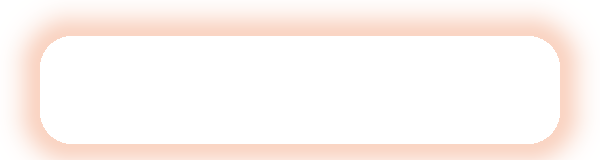
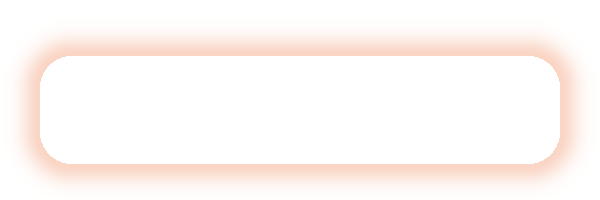
Mail: card ends as overlay without fill, halo not cut off, button cell recolours with the card

diff --git a/web/app/mailtext.py b/web/app/mailtext.py
@@ -75,7 +75,7 @@ HTML = """<!doctype html>
   <table role="presentation" width="520" cellpadding="0" cellspacing="0" border="0" style="width:100%;max-width:520px;border-collapse:separate;border-spacing:0;">
     <tr><td class="t" style="padding:0 8px 16px;font-family:%FONT%;font-size:18px;font-weight:700;letter-spacing:-0.01em;color:%TEXT%;">Agent-Hub</td></tr>
 <!--[if !mso]><!-->
-    <tr><td class="card" style="padding:0;font-size:0;line-height:0;background-color:%CARD%;border:1px solid %BORDER%;border-bottom:0;border-radius:28px 28px 0 0;">%CAP_TOP%</td></tr>
+    <tr><td class="card" style="padding:0;font-size:0;line-height:0;background-color:%CARD%;border-radius:28px 28px 0 0;">%CAP_TOP%</td></tr>
 <!--<![endif]-->
 <!--[if mso]>
     <tr><td bgcolor="%CARD%" height="24" style="background-color:%CARD%;border-top:1px solid %BORDER%;border-left:1px solid %BORDER%;border-right:1px solid %BORDER%;font-size:0;line-height:0;">&nbsp;</td></tr>
@@ -84,12 +84,12 @@ HTML = """<!doctype html>
       <h1 class="t" style="margin:0 0 16px;font-family:%FONT%;font-size:30px;line-height:1.15;mso-line-height-rule:exactly;font-weight:700;letter-spacing:-0.03em;color:%TEXT%;">%GREETING%</h1>
       <p class="t" style="margin:0 0 28px;font-family:%FONT%;font-size:17px;line-height:1.55;color:%TEXT%;">%BODY%</p>
       <table role="presentation" width="100%" cellpadding="0" cellspacing="0" border="0" style="width:100%;max-width:320px;margin:0 auto;"><tr>
-        <td align="center"%GLOW% style="padding:13px 16px;%GLOW_CSS%">
+        <td class="card" align="center" bgcolor="%CARD%"%GLOW% style="padding:23px 16px;background-color:%CARD%;%GLOW_CSS%">
 <!--[if mso]>
           <v:roundrect xmlns:v="urn:schemas-microsoft-com:vml" xmlns:w="urn:schemas-microsoft-com:office:word" href="%LINK%" style="height:54px;width:260px;v-text-anchor:middle;" arcsize="30%" strokecolor="%ACCENT%" fillcolor="%ACCENT%"><v:fill type="gradient" color="%SHEEN%" color2="%ACCENT%" angle="180"/><w:anchorlock/><center style="font-family:Arial,sans-serif;font-size:17px;font-weight:bold;color:%ON_ACCENT%;">%BUTTON%</center></v:roundrect>
 <![endif]-->
 <!--[if !mso]><!-->
-          <table role="presentation" width="260" cellpadding="0" cellspacing="0" border="0" align="center" style="width:260px;margin:0 auto;"><tr>
+          <table role="presentation" width="260" cellpadding="0" cellspacing="0" border="0" align="center" bgcolor="%CARD%" style="width:260px;margin:0 auto;background-color:%CARD%;"><tr>
             <td class="btn" align="center" bgcolor="%ACCENT%"%SHEEN_PIC% style="width:260px;height:54px;border-radius:16px;background-color:%ACCENT%;%SHEEN_CSS%">
               <a class="bt" href="%LINK%" style="display:block;height:54px;line-height:54px;white-space:nowrap;font-family:%FONT%;font-size:17px;font-weight:700;color:%ON_ACCENT%;text-decoration:none;border-radius:16px;">%BUTTON%</a>
             </td>
@@ -102,7 +102,7 @@ HTML = """<!doctype html>
       <p class="m" style="margin:28px 0 0;font-size:13px;line-height:1.55;color:%MUTED%;">%NOTE%</p>
     </td></tr>
 <!--[if !mso]><!-->
-    <tr><td class="card" style="padding:0;font-size:0;line-height:0;background-color:%CARD%;border:1px solid %BORDER%;border-top:0;border-radius:0 0 28px 28px;">%CAP_BOTTOM%</td></tr>
+    <tr><td class="card" style="padding:0;font-size:0;line-height:0;background-color:%CARD%;border-radius:0 0 28px 28px;">%CAP_BOTTOM%</td></tr>
 <!--<![endif]-->
 <!--[if mso]>
     <tr><td bgcolor="%CARD%" height="24" style="background-color:%CARD%;border-bottom:1px solid %BORDER%;border-left:1px solid %BORDER%;border-right:1px solid %BORDER%;font-size:0;line-height:0;">&nbsp;</td></tr>
@@ -115,7 +115,7 @@ HTML = """<!doctype html>
 </html>"""
 
 # Sizes of the pictures as shown (the files are twice as large), see tools/make_mail_images.py.
-PICTURES = {"backdrop": (600, 360), "glow": (300, 80), "button": (260, 54)}
+PICTURES = {"backdrop": (600, 360), "glow": (300, 100), "button": (260, 54)}
 CAPS = {"card-top": (520, 40), "card-bottom": (520, 28)}
 
 

diff --git a/web/tools/make_mail_images.py b/web/tools/make_mail_images.py
@@ -15,9 +15,9 @@ import zlib
 
 PALETTES = {
     "light": {"CARD": (247, 230, 211), "BORDER": (226, 199, 168), "ACCENT": (232, 132, 90), "EDGE": (255, 255, 255, 0.55),
-              "SHEEN": 0.34, "ORBS": ((240, 168, 120, 0.50), (230, 191, 140, 0.55), (232, 132, 90, 0.40))},
+              "SHEEN": 0.20, "ORBS": ((240, 168, 120, 0.50), (230, 191, 140, 0.55), (232, 132, 90, 0.40))},
     "dark": {"CARD": (51, 36, 28), "BORDER": (74, 52, 40), "ACCENT": (242, 154, 114), "EDGE": (255, 220, 190, 0.30),
-             "SHEEN": 0.10, "ORBS": ((138, 79, 46, 0.55), (107, 58, 34, 0.60), (200, 104, 63, 0.42))},
+             "SHEEN": 0.07, "ORBS": ((138, 79, 46, 0.55), (107, 58, 34, 0.60), (200, 104, 63, 0.42))},
 }
 
 
@@ -81,24 +81,26 @@ def coverage(distance):
 
 
 def card_cap(name, palette, top, size=(1040, 80)):
-    """Top or bottom end of the card: round corners (28 px, doubled), border, light edge and sheen."""
+    """Top or bottom end of the card as an overlay: the border ring, the light edge and the sheen. There is no
+    fill: the fill is the colour of the cell below (clipped round by the program), so a program that recolours the
+    card for its dark mode recolours the ends with it (Yahoo did; a filled picture stayed light)."""
     width, height = size
     radius, line = 56, 2
-    card, border, edge, sheen = palette["CARD"], palette["BORDER"], palette["EDGE"], palette["SHEEN"]
+    border, edge, sheen = palette["BORDER"], palette["EDGE"], palette["SHEEN"]
 
     def shade(x, y):
-        # The shape is a tall card; we draw only its top (or, mirrored, its bottom) end.
         yy = y if top else height - y
         distance = box_distance(x, yy, 0, 0, width, height * 4, radius)
-        outer = coverage(distance)
-        if outer == 0:
+        if coverage(distance) == 0:
             return (0, 0, 0, 0)
-        colour = over((*border, 1.0), (*card, coverage(distance + line)))
+        ring = coverage(distance) - coverage(distance + line)
+        inside = coverage(distance + line)
+        colour = (*border, max(0.0, ring))
         if top:
-            colour = over(colour, (255, 255, 255, sheen * max(0.0, 1 - yy / height) ** 1.5 * coverage(distance + line)))
-            ring = coverage(distance + line + 1) - coverage(distance + line + 3)  # light edge just inside the border
-            colour = over(colour, (edge[0], edge[1], edge[2], edge[3] * max(0.0, ring) * (1 - min(1.0, yy / (height * 0.9)))))
-        return (*colour[:3], colour[3] * outer)
+            colour = over(colour, (255, 255, 255, sheen * max(0.0, 1 - yy / height) ** 1.5 * inside))
+            glint = max(0.0, coverage(distance + line + 1) - coverage(distance + line + 3))  # light edge inside the ring
+            colour = over(colour, (edge[0], edge[1], edge[2], edge[3] * glint * (1 - min(1.0, yy / (height * 0.9)))))
+        return colour
 
     return name, width, height, render(width, height, shade)
 
@@ -122,7 +124,7 @@ def button_sheen(name, palette, size=(520, 108)):
     return name, width, height, render(width, height, shade)
 
 
-def button_glow(name, palette, size=(600, 160), button=(520, 108)):
+def button_glow(name, palette, size=(600, 200), button=(520, 108)):
     """Soft halo of the accent colour around the (centred) button; the button itself is covered by its own cell."""
     width, height = size
     bw, bh = button
@@ -133,7 +135,7 @@ def button_glow(name, palette, size=(600, 160), button=(520, 108)):
         distance = box_distance(x, y, left, top + 10, left + bw, top + bh + 10, 32)
         if distance <= 0:
             return (*accent, 0.0)
-        return (*accent, 0.42 * math.exp(-(distance / 22) ** 2))
+        return (*accent, 0.42 * math.exp(-(distance / 18) ** 2))
 
     return name, width, height, render(width, height, shade, samples=1)
 
